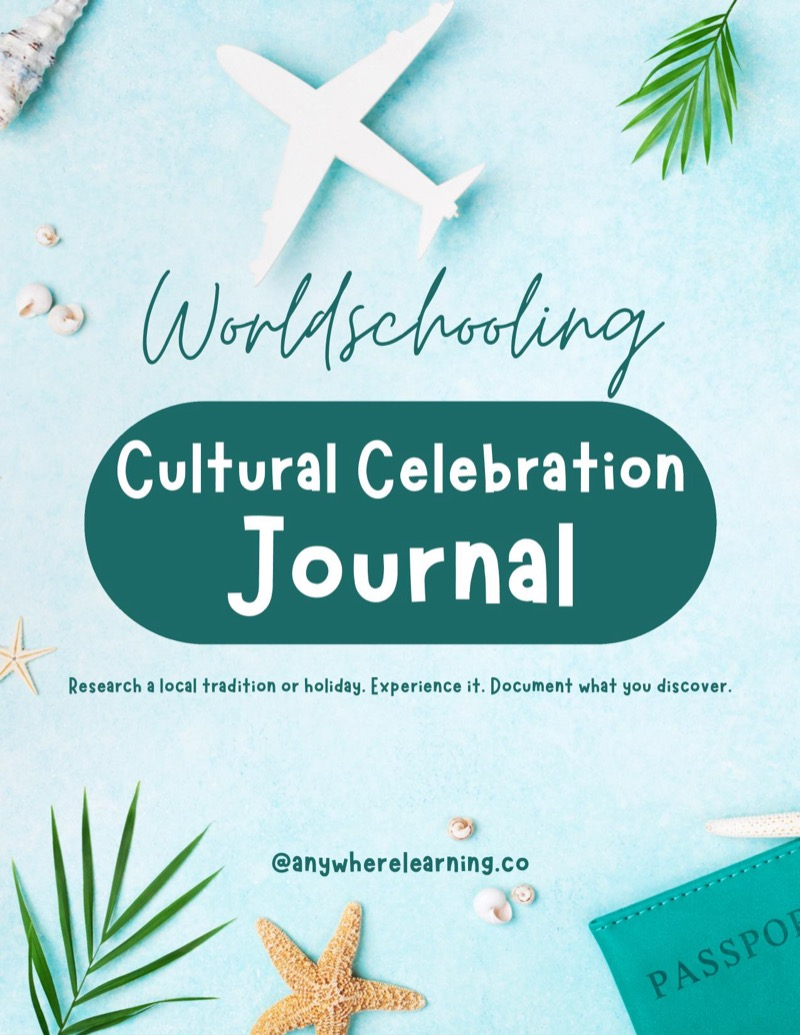
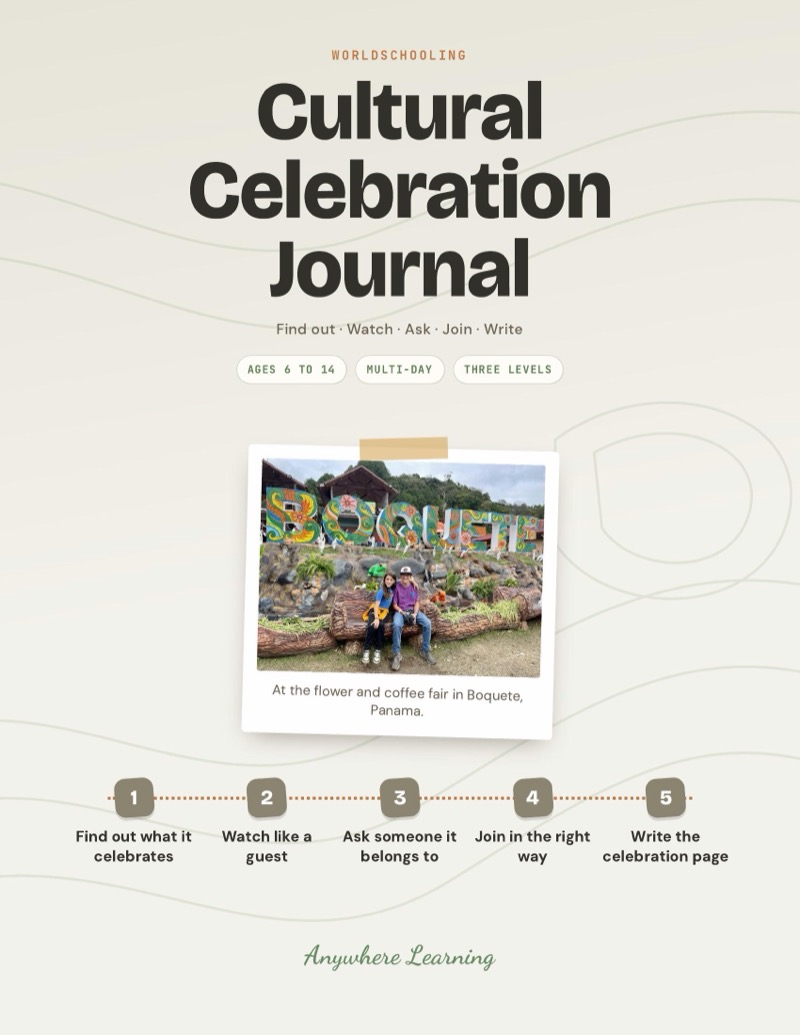
Cultural Celebration Journal: redesigned guide, Boquete flower and coffee fair story and photo, ages 6-14

diff --git a/scripts/seed.ts b/scripts/seed.ts
@@ -121,7 +121,7 @@ async function seed() {
     { name: 'What Would You Do? Decision Lab', slug: 'decision-lab', description: 'Your child works through tough little decisions, the kind with no easy answer. They say a gut reaction, find the options nobody mentioned, stand on each one to see who it touches, hold up under pressure, then use what they learned on a real decision of their own and check back a week later.', shortDescription: 'Life skill for kids ages 6-14: think through tough choices, handle pressure and make a real decision of their own.', priceCents: 599, compareAtPriceCents: null, stripePriceId: '', blobUrl: '', imageUrl: '/products/decision-lab.jpg', category: 'planning-problem-solving', isBundle: false, bundleProductIds: null, activityCount: null, ageRange: 'Ages 6–14', sortOrder: 139, active: true },
 
     // === WORLDSCHOOLING (sortOrder 200-209) ===
-    { name: 'Cultural Celebration Journal', slug: 'cultural-celebration-journal', description: 'Document festivals, holidays, and cultural celebrations through guided observation and reflection.', shortDescription: 'Document cultural celebrations through observation.', priceCents: 599, compareAtPriceCents: null, stripePriceId: 'price_1TS08fAkIBECpwGmmkgwZ26F', blobUrl: '', imageUrl: '/products/cultural-celebration-journal.jpg', category: 'worldschooling', isBundle: false, bundleProductIds: null, activityCount: null, ageRange: 'Ages 6–14', sortOrder: 200, active: true },
+    { name: 'Cultural Celebration Journal', slug: 'cultural-celebration-journal', description: 'Find out what a real festival celebrates, watch closely, ask a local, join in and write it up in a celebration journal.', shortDescription: 'Read a real festival and write it up.', priceCents: 599, compareAtPriceCents: null, stripePriceId: 'price_1TS08fAkIBECpwGmmkgwZ26F', blobUrl: '', imageUrl: '/products/cultural-celebration-journal.jpg', category: 'worldschooling', isBundle: false, bundleProductIds: null, activityCount: null, ageRange: 'Ages 6–14', sortOrder: 200, active: true },
     { name: 'Currency & Market Math', slug: 'currency-market-math', description: 'Convert currencies, compare prices, and practise mental maths in real markets.', shortDescription: 'Currency and market maths in real markets.', priceCents: 599, compareAtPriceCents: null, stripePriceId: 'price_1TS08fAkIBECpwGmwUsCteF2', blobUrl: '', imageUrl: '/products/currency-market-math.jpg', category: 'worldschooling', isBundle: false, bundleProductIds: null, activityCount: null, ageRange: 'Ages 6–14', sortOrder: 201, active: false },
     { name: 'Everyday Life Comparison', slug: 'everyday-life-comparison', description: 'Compare daily life across cultures: transport, food, school, and play.', shortDescription: 'Compare everyday life across cultures.', priceCents: 599, compareAtPriceCents: null, stripePriceId: 'price_1TS08gAkIBECpwGmg1RJabLC', blobUrl: '', imageUrl: '/products/everyday-life-comparison.jpg', category: 'worldschooling', isBundle: false, bundleProductIds: null, activityCount: null, ageRange: 'Ages 6–14', sortOrder: 202, active: false },
     { name: 'Local Language Mission', slug: 'local-language-mission', description: 'Your kid uses a language they barely speak to do one real job, like buying fruit, ordering a snack or asking the way. They pick the mission, learn just the words it needs, rehearse with you as the shopkeeper, then do it for real with a real person. Being understood is the goal, not getting it perfect. Works for any language, anywhere you travel.', shortDescription: 'Worldschooling language activity for kids ages 6-14: pick a real mission, learn the words, rehearse, then do it with a real person.', priceCents: 599, compareAtPriceCents: null, stripePriceId: 'price_1TS08gAkIBECpwGmAQk4fwgK', blobUrl: '', imageUrl: '/products/local-language-mission.jpg', category: 'worldschooling', isBundle: false, bundleProductIds: null, activityCount: null, ageRange: 'Ages 6–14', sortOrder: 203, active: true },

diff --git a/lib/product-descriptions.ts b/lib/product-descriptions.ts
@@ -2267,27 +2267,27 @@ export const productDescriptions: Record<string, ProductDescription> = {
   // ═══════════════════════════════════════════════════════════════════
   'cultural-celebration-journal': {
     opening:
-      'A guided journal for documenting festivals, holidays, and cultural celebrations wherever you go. Kids observe traditions, ask thoughtful questions, sketch what they see, and reflect on what makes each celebration meaningful. Cultural curiosity meets meaningful journaling.',
+      'Your kid goes to a real festival or celebration where you are staying and works out what it says about the place. They find out what it celebrates, watch closely, ask someone it belongs to, join in like locals do, then write it up in their celebration journal.',
     whatsIncluded: [
-      'Guided journal prompts for documenting celebrations',
-      'Observation questions for traditions and customs',
-      'Sketching and visual storytelling pages',
-      'Reflection prompts on meaning and connection',
-      'Reusable format: works for any festival, anywhere',
+      'Five steps, from finding out what it celebrates to writing the page',
+      'Find out first, Watch for, Ask someone and Be a good guest cards',
+      'A worked example: the flower and coffee fair in Boquete, Panama',
+      'My celebration page, with a comparison to a celebration from home',
+      'Three levels per step, for any festival, anywhere',
     ],
-    skillTags: ['Cultural Awareness', 'Journaling', 'Observation', 'Reflection', 'Writing'],
+    skillTags: ['Cultural Awareness', 'Observation', 'Writing', 'Geography', 'Communication'],
     insideTheLearning: {
       lead:
-        'Your child documents a real celebration, their own or someone else\'s, and works out what it says about what people value. It runs on asking respectful questions and listening to the answers, then recording what they found in writing and sketches. Research with actual people in it.',
+        'Your kid finds out what a real celebration is for before they go, so every display, dish and song becomes a clue. They ask someone it belongs to, join in the way locals do, then write a page that explains what the celebration shows about the place.',
       skills: [
-        { skill: 'Cultural Awareness', where: 'Understanding what a celebration reveals about people\'s values and beliefs' },
-        { skill: 'Research', where: 'Investigating the history, customs and significance across several sources' },
-        { skill: 'Communication', where: 'Asking respectful questions and genuinely listening to personal stories' },
-        { skill: 'Empathy', where: 'Understanding why it matters to the people it belongs to' },
-        { skill: 'Critical Thinking', where: 'Looking past the surface of a tradition to what sits underneath it' },
+        { skill: 'Social Studies', where: 'Why people here celebrate what they do' },
+        { skill: 'Geography', where: 'How the land and climate shape a celebration' },
+        { skill: 'History', where: 'How a tradition started and how it changed' },
+        { skill: 'Writing', where: 'A journal page that explains, not just lists' },
+        { skill: 'Communication', where: 'Asking a local one good question and listening to the answer' },
       ],
     },
-    format: 'Activity Guide',
+    format: 'Project Guide',
   },
   'currency-market-math': {
     opening:

diff --git a/lib/skills.ts b/lib/skills.ts
@@ -57,7 +57,7 @@ export const productSkills: Record<string, ProductSkills> = {
   "community-tour-guide": { canonical: ["Writing","Presentation","Research","Communication","Community"], families: ["communication-and-writing","critical-thinking-and-reasoning","empathy-and-people","planning-and-self-management"] },
   "create-with-ai": { canonical: ["Communication","Creative Thinking","Decision-Making","Digital Citizenship"], families: ["communication-and-writing","creativity-and-making","critical-thinking-and-reasoning","tech-and-digital"] },
   "creature-habitat": { canonical: ["Biology","Art","Engineering","Scientific Thinking","Design"], families: ["communication-and-writing","creativity-and-making","critical-thinking-and-reasoning","nature-and-science"] },
-  "cultural-celebration-journal": { canonical: ["Communication","Critical Thinking","Cultural Awareness","Empathy","Research"], families: ["communication-and-writing","critical-thinking-and-reasoning","empathy-and-people","world-and-geography"] },
+  "cultural-celebration-journal": { canonical: ["Cultural Awareness","Observation","Writing","Geography","Communication"], families: ["communication-and-writing","critical-thinking-and-reasoning","empathy-and-people","world-and-geography"] },
   "currency-market-math": { canonical: ["Critical Thinking","Financial Literacy","Math","Problem-Solving"], families: ["critical-thinking-and-reasoning","entrepreneurship-and-money","math-and-money"] },
   "customer-discovery": { canonical: ["Communication","Critical Thinking","Empathy","Entrepreneurship","Research"], families: ["communication-and-writing","critical-thinking-and-reasoning","empathy-and-people","entrepreneurship-and-money"] },
   "decision-lab": { canonical: ["Decision-Making","Critical Thinking","Empathy","Communication","Independence"], families: ["communication-and-writing","critical-thinking-and-reasoning","empathy-and-people"] },

diff --git a/scripts/create-stripe-products.ts b/scripts/create-stripe-products.ts
@@ -105,7 +105,7 @@ const catalog = [
   { slug: 'what-if-scenario-lab', name: 'The What-If Scenario Lab', priceCents: 599, description: 'Critical thinking activity for kids ages 6-14: follow a big what-if all the way through, then try a slice of it for real.' },
   { slug: 'decision-lab', name: 'What Would You Do? Decision Lab', priceCents: 599, description: 'Life skill for kids ages 6-14: think through tough choices, handle pressure and make a real decision of their own.' },
   // ─── Worldschooling singles ($5.99) ───
-  { slug: 'cultural-celebration-journal', name: 'Cultural Celebration Journal', priceCents: 599, description: 'Document festivals, holidays, and cultural celebrations through guided observation.' },
+  { slug: 'cultural-celebration-journal', name: 'Cultural Celebration Journal', priceCents: 599, description: 'Find out what a real festival celebrates, watch closely, ask a local, join in and write it up in a celebration journal.' },
   { slug: 'currency-market-math', name: 'Currency & Market Math', priceCents: 599, description: 'Convert currencies, compare prices, and practise mental maths in real markets.' },
   { slug: 'everyday-life-comparison', name: 'Everyday Life Comparison', priceCents: 599, description: 'Compare daily life across cultures: transport, food, school, and play.' },
   { slug: 'local-language-mission', name: 'Local Language Mission', priceCents: 599, description: 'Worldschooling language activity for kids ages 6-14: pick a real mission, learn the words, rehearse, then do it with a real person.' },

diff --git a/lib/fallback-products.ts b/lib/fallback-products.ts
@@ -2009,15 +2009,15 @@ export const fallbackProducts: FallbackProduct[] = [
     name: "Cultural Celebration Journal",
     slug: "cultural-celebration-journal",
     description:
-      "A guided journal for documenting festivals, holidays, and cultural celebrations wherever you go. Kids observe traditions, ask thoughtful questions, sketch what they see, and reflect on what makes each celebration meaningful. Cultural curiosity meets meaningful journaling.",
+      "Your kid goes to a real festival or celebration where you are staying and works out what it says about the place. They find out what it celebrates, watch closely, ask someone it belongs to, join in like locals do, then write it up in their celebration journal.",
     shortDescription:
-      "Worldschooling activity for kids ages 6-14: document cultural celebrations and traditions through observation and reflection.",
+      "Worldschooling activity for kids ages 6-14: find out what a real festival celebrates, ask a local about it, join in and write it up.",
     priceCents: 599,
     compareAtPriceCents: null,
     stripePriceId: "price_1TS08fAkIBECpwGmmkgwZ26F",
     blobUrl: "",
     imageUrl: "/products/cultural-celebration-journal.jpg",
-    previewFile: "Preview Worldschooling - Cultural Celebration Journal.pdf",
+    previewFile: "Preview Worldschooling - Cultural Celebration Journal v3.pdf",
     category: "worldschooling",
     isBundle: false,
     bundleProductIds: null,

diff --git a/lib/activity-blob-urls.ts b/lib/activity-blob-urls.ts
@@ -34,7 +34,7 @@ export const ACTIVITY_BLOB_URLS: Record<string, string> = {
   "conflict-fix": "https://xkj3tzlgu6ylgllk.public.blob.vercel-storage.com/Emotional%20%26%20Social%20Skills%20-%20The%20Conflict%20Fix%20v2.pdf",
   "create-with-ai": "https://xkj3tzlgu6ylgllk.public.blob.vercel-storage.com/AI%20%26%20Digital%20Literacy%20-%20CREATE%20WITH%20AI%2C%20ETHICALLY%20v2.pdf",
   "creature-habitat": "https://xkj3tzlgu6ylgllk.public.blob.vercel-storage.com/Creativity%20%26%20Maker%20Create%20a%20Creature%20and%20Build%20Its%20Habitat%20v6.pdf",
-  "cultural-celebration-journal": "https://xkj3tzlgu6ylgllk.public.blob.vercel-storage.com/Worldschooling%20-%20Cultural%20Celebration%20Journal%20v2.pdf",
+  "cultural-celebration-journal": "https://xkj3tzlgu6ylgllk.public.blob.vercel-storage.com/Worldschooling%20-%20Cultural%20Celebration%20Journal%20v3.pdf",
   "currency-market-math": "https://xkj3tzlgu6ylgllk.public.blob.vercel-storage.com/Worldschooling%20-%20Currency%20%26%20Market%20Math%20v2.pdf",
   "customer-discovery": "https://xkj3tzlgu6ylgllk.public.blob.vercel-storage.com/Entrepreneurship%20-%20Customer%20Discovery%20Challenge%20v2.pdf",
   "decision-lab": "https://xkj3tzlgu6ylgllk.public.blob.vercel-storage.com/Planning%20%26%20Problem-Solving%20What%20Would%20You%20Do%20Decision%20Lab%20v6.pdf",

diff --git a/lib/roadmap.ts b/lib/roadmap.ts
@@ -400,6 +400,7 @@ const SUPPLEMENTAL_TERRITORY_TAGS: Record<string, string[]> = {
   'nature-geography-field-study': ['physical', 'critical-thinking'],
   'transport-navigation-challenge': ['critical-thinking', 'math', 'self-management'],
   'world-food-detective': ['life-skills', 'critical-thinking'],
+  'cultural-celebration-journal': ['writing', 'communication'],
   'grow-it-eat-it': ['self-management', 'critical-thinking', 'life-skills'],
   'kitchen-science-lab': ['critical-thinking', 'math'],
   'probability-lab': ['math', 'critical-thinking'],

diff --git a/lib/home-showcase.ts b/lib/home-showcase.ts
@@ -268,7 +268,7 @@ export const SHOWCASE_ACTIVITIES: ShowcaseActivity[] = [
     colorText: '#588157',
     time: 'Multi-day',
     photo: '/products/cultural-celebration-journal.jpg',
-    blurb: 'Capture a festival like a traveller.',
+    blurb: 'Read a real festival, then write it up.',
   },
   {
     slug: 'decision-lab',
